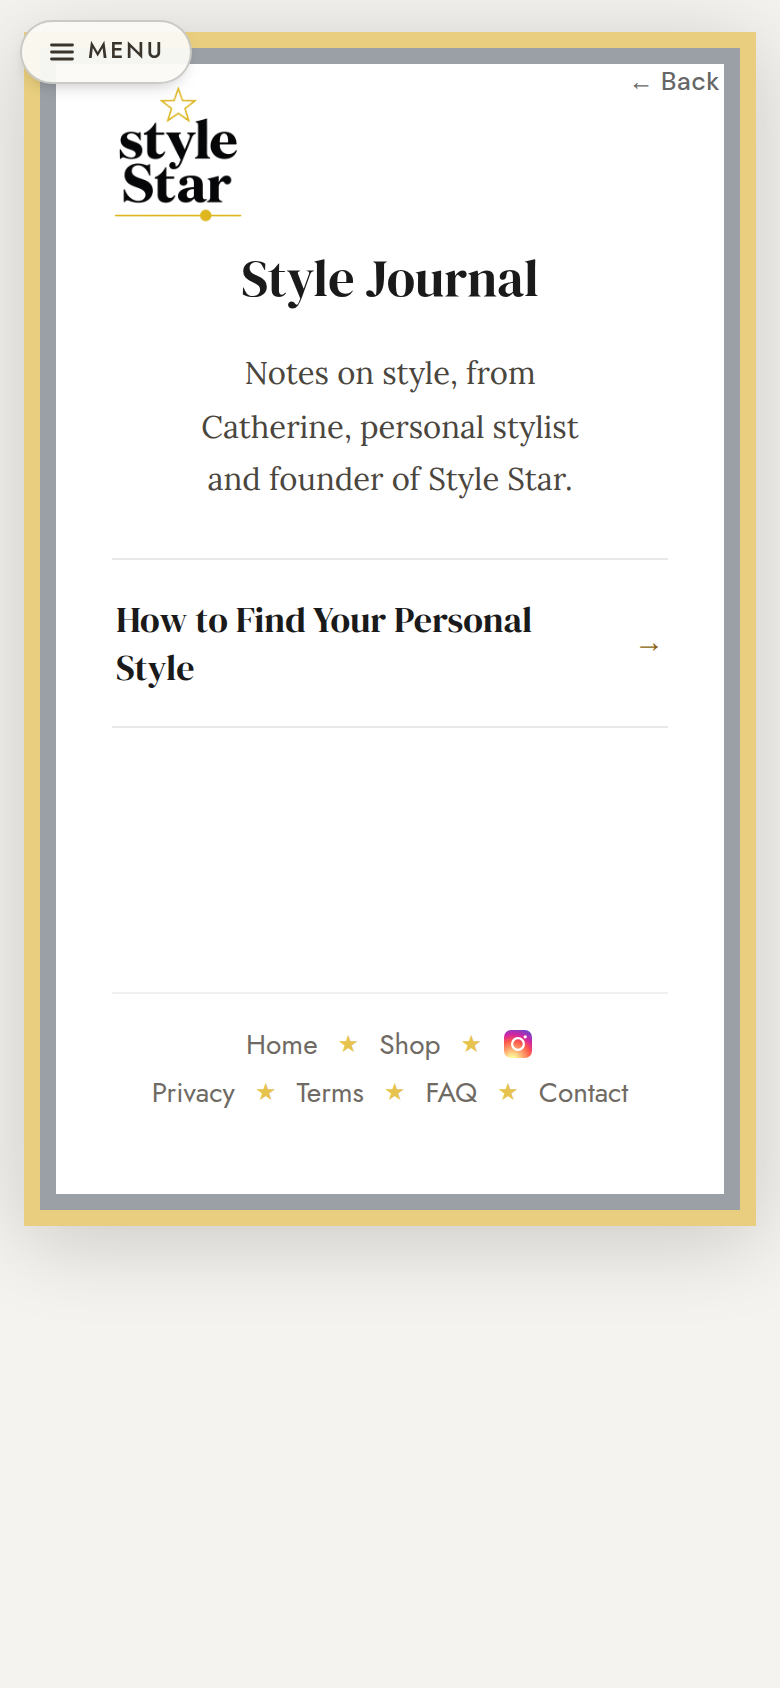
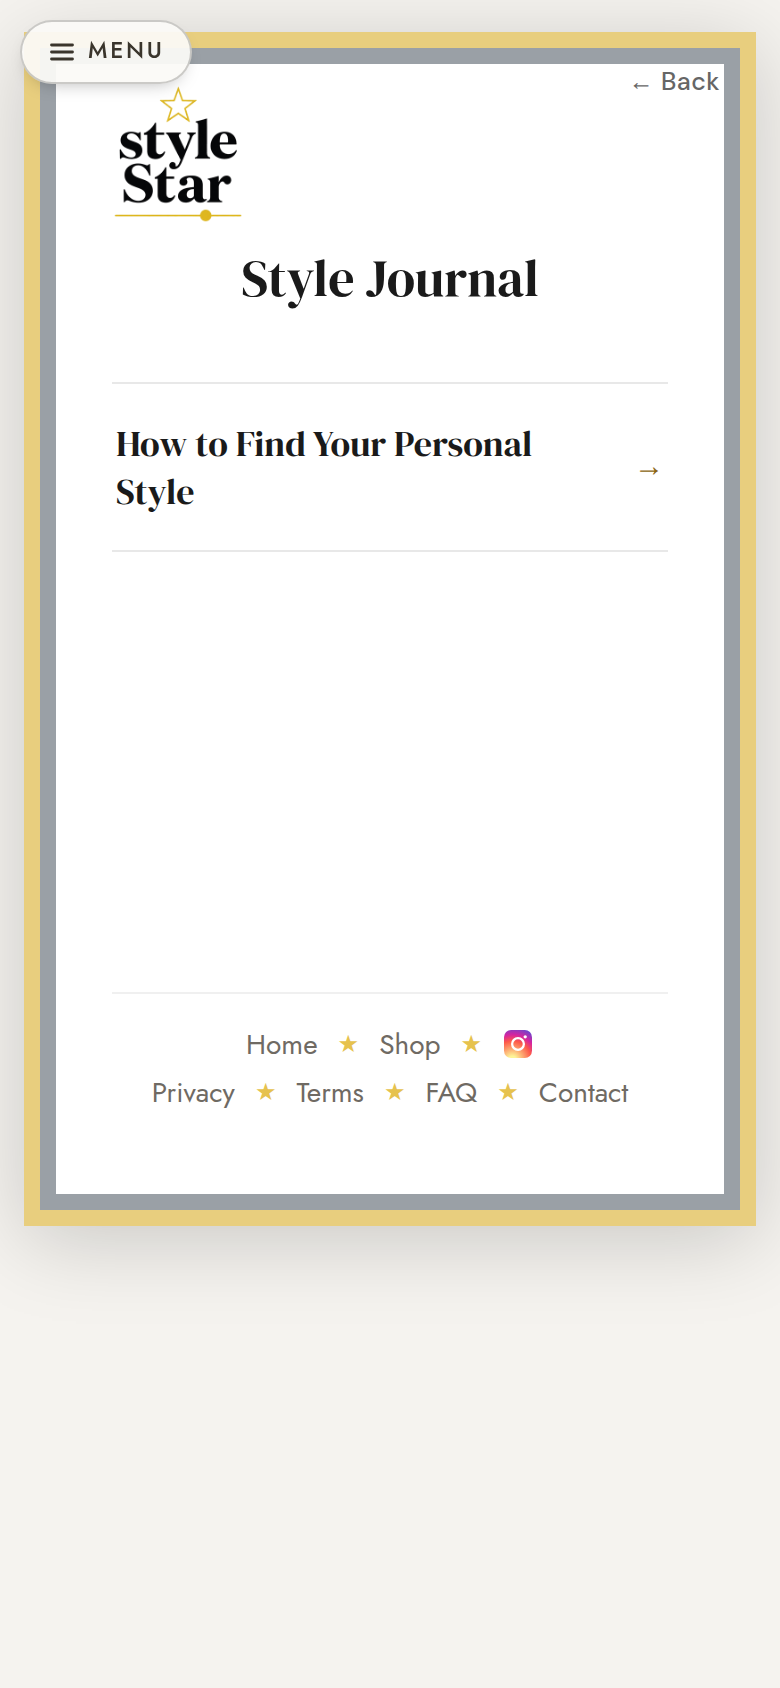
Journal hub: her name intro line deleted, her call
"Notes on style, from Catherine, personal stylist and founder of Style
Star." is gone. Her reasoning: her name and title already appear on the
article's own byline one tap away, and she does not want it repeated on
the hub too. The title now leads straight into the article list; .jhub-list
picked up a small margin-top to keep the spacing intentional rather than
cramped now that nothing sits between the h1 and the hairline.

Verified: div/p-balanced markup, both script blocks parse, the Journal
behavioral suite still 14/14, and a fresh render confirms the layout still
reads clean -- title, list, and the footer still anchored lower in the
card from the earlier fix.

Changed region(s): [[0.1538, 0.2156, 0.7385, 0.3081], [0.3077, 0.3389, 0.6769, 0.4005], [0.1538, 0.3389, 0.2769, 0.4005]]

diff --git a/index.html b/index.html
@@ -2038,16 +2038,16 @@ body.menu-open .menu-panel{display:block}
 /* Style Journal hub (built 2026-08-26): the article list is generated in JS
    from JOURNAL_ARTICLES, so adding an article is one entry in that array --
    never a second row hand-typed here.
-   Her catch, same day (screenshots): "Style Star" was splitting across two
-   lines of the intro paragraph, stranding "Star." alone on a third -- the
-   standard widow, same fix as everywhere else in the app, text-wrap:balance.
-   And .pg-foot ALREADY draws its own hairline 1.3rem above itself, so with
-   nothing between it and the list's own bottom border, a one-article hub had
-   THREE hairlines stacked within a few dozen pixels. margin-bottom here is
-   what gives the footer room to read as its own separate block, not one
-   more line crowded onto the list. */
-.jhub-intro{font:400 15.5px/1.72 'Lora',Georgia,serif;color:#4a463e;text-align:center;margin:0 0 26px;text-wrap:balance}
-.jhub-list{border-top:1px solid rgba(33,30,26,.1);margin-bottom:30px}
+   ⚠ HER CALL, same day: the intro line ("Notes on style, from Catherine,
+   personal stylist and founder of Style Star.") was DELETED -- her name and
+   title already appear on the article's own byline one tap away, and she
+   does not want it repeated here too. The title alone now leads straight
+   into the list. And .pg-foot ALREADY draws its own hairline 1.3rem above
+   itself, so with nothing between it and the list's own bottom border, a
+   one-article hub had hairlines stacked within a few dozen pixels.
+   margin-bottom here is what gives the footer room to read as its own
+   separate block, not one more line crowded onto the list. */
+.jhub-list{border-top:1px solid rgba(33,30,26,.1);margin-bottom:30px;margin-top:18px}
 .jhub-row{display:flex;align-items:center;justify-content:space-between;gap:14px;padding:18px 2px;
   border-bottom:1px solid rgba(33,30,26,.1);cursor:pointer;-webkit-tap-highlight-color:transparent}
 .jhub-row-title{font:400 18px/1.3 'DM Serif Display',Georgia,serif;color:#1a1a1a}
@@ -5093,7 +5093,6 @@ body.ss-play .hm-entrance{animation:ssOverlayOut .55s ease 1.6s forwards}
       <button class="top-back" onclick="closeJournalHub()">&larr; Back</button>
     </div>
     <h1 class="story-title" style="text-align:center">Style Journal</h1>
-    <p class="jhub-intro">Notes on style, from Catherine, personal stylist and founder of Style Star.</p>
     <div id="journalHubList" class="jhub-list"></div>
     <div class="pg-foot" data-std-foot></div>
   </div>
